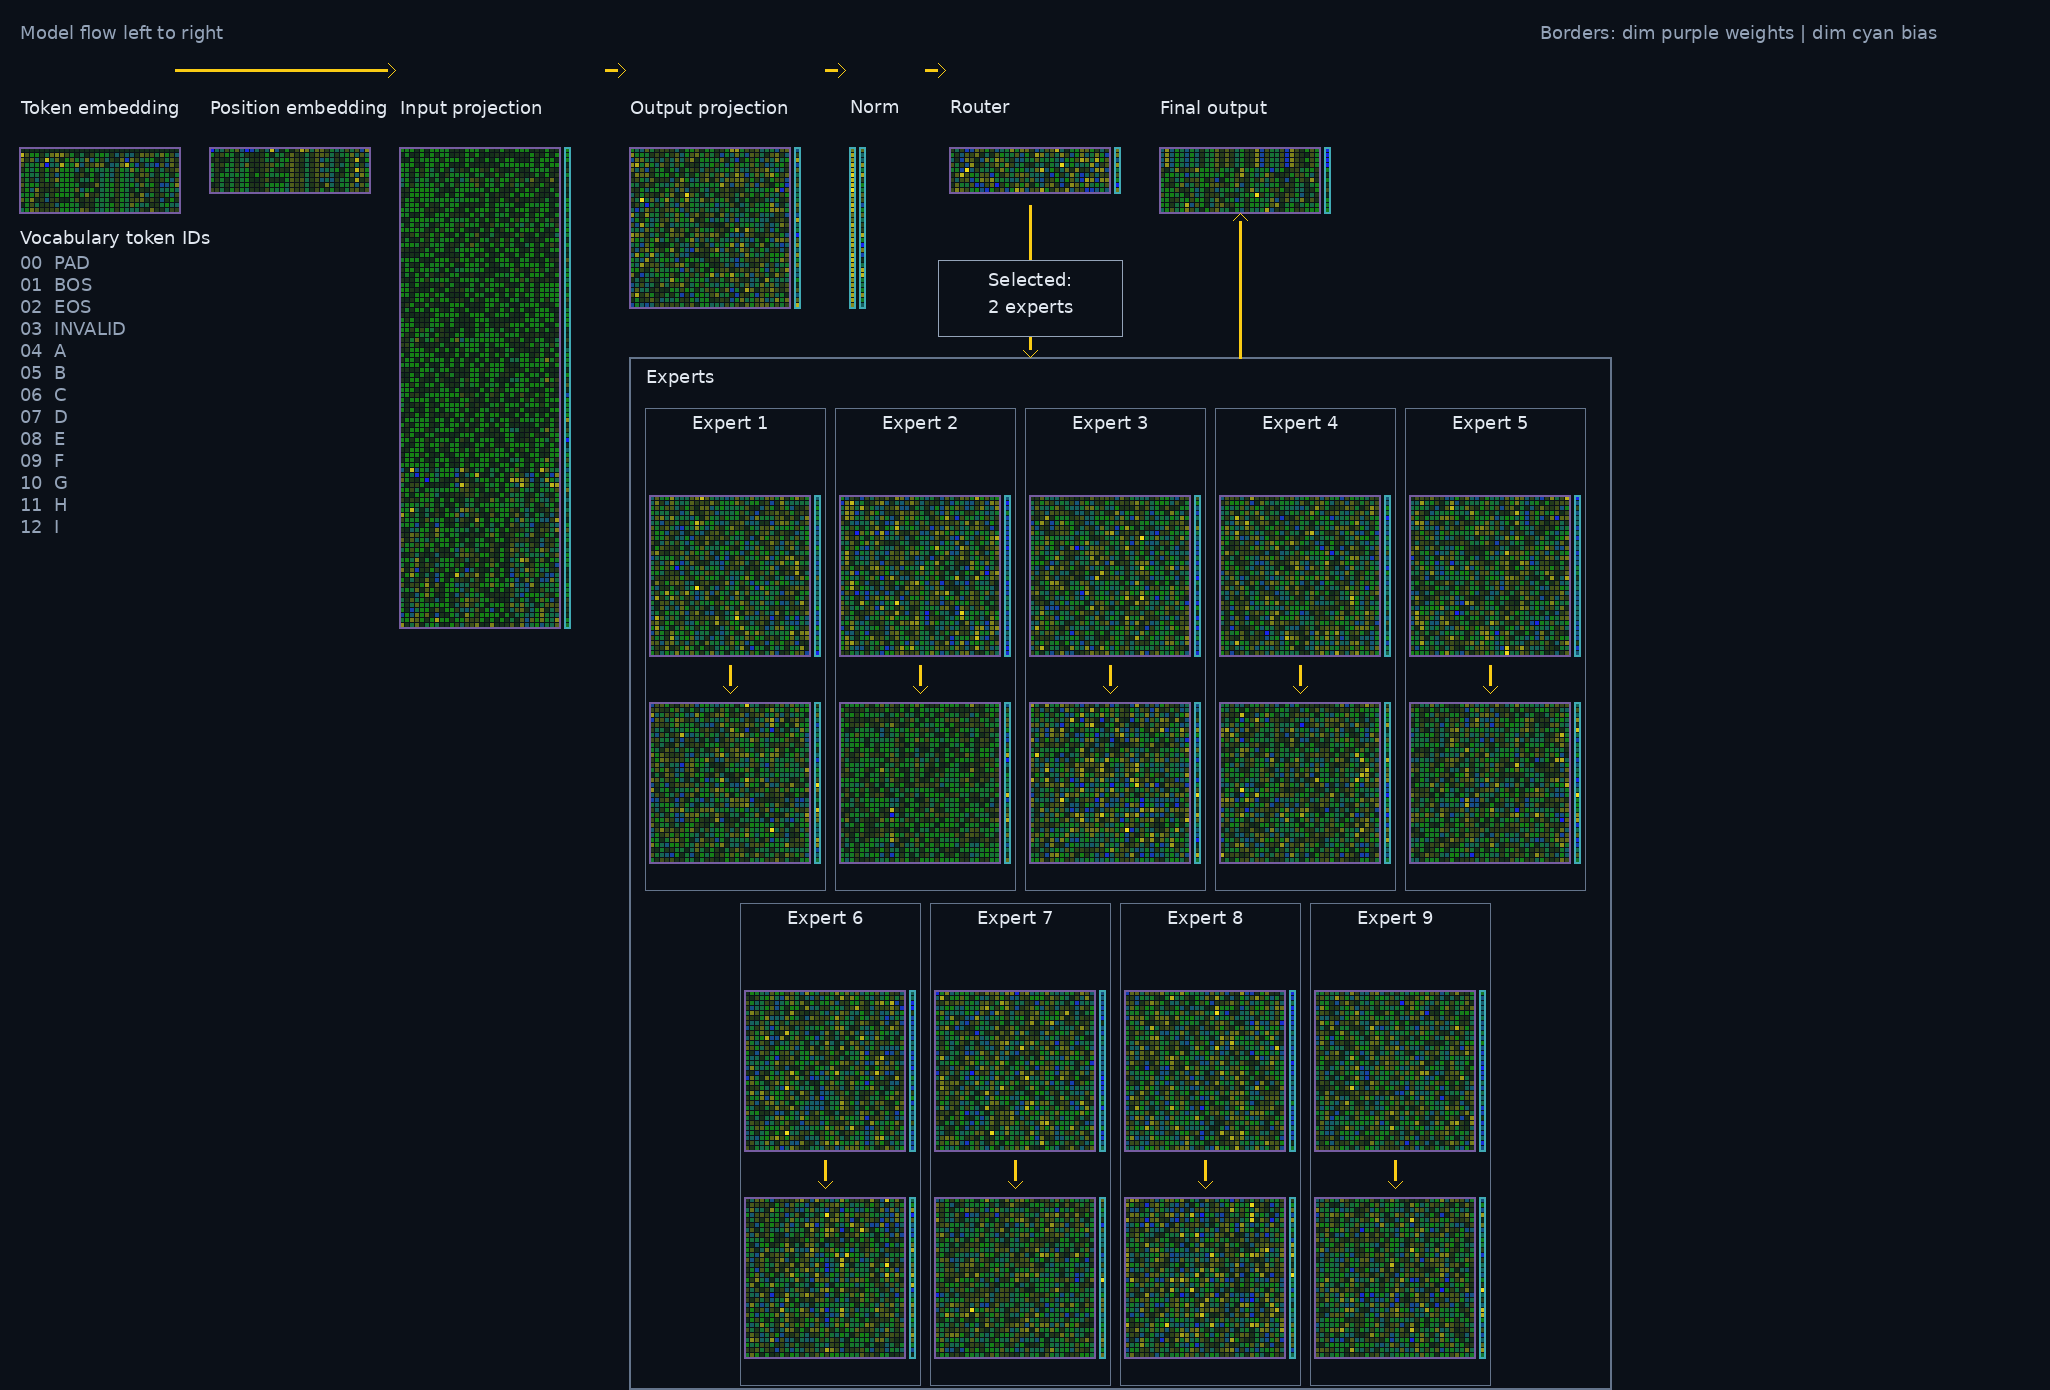
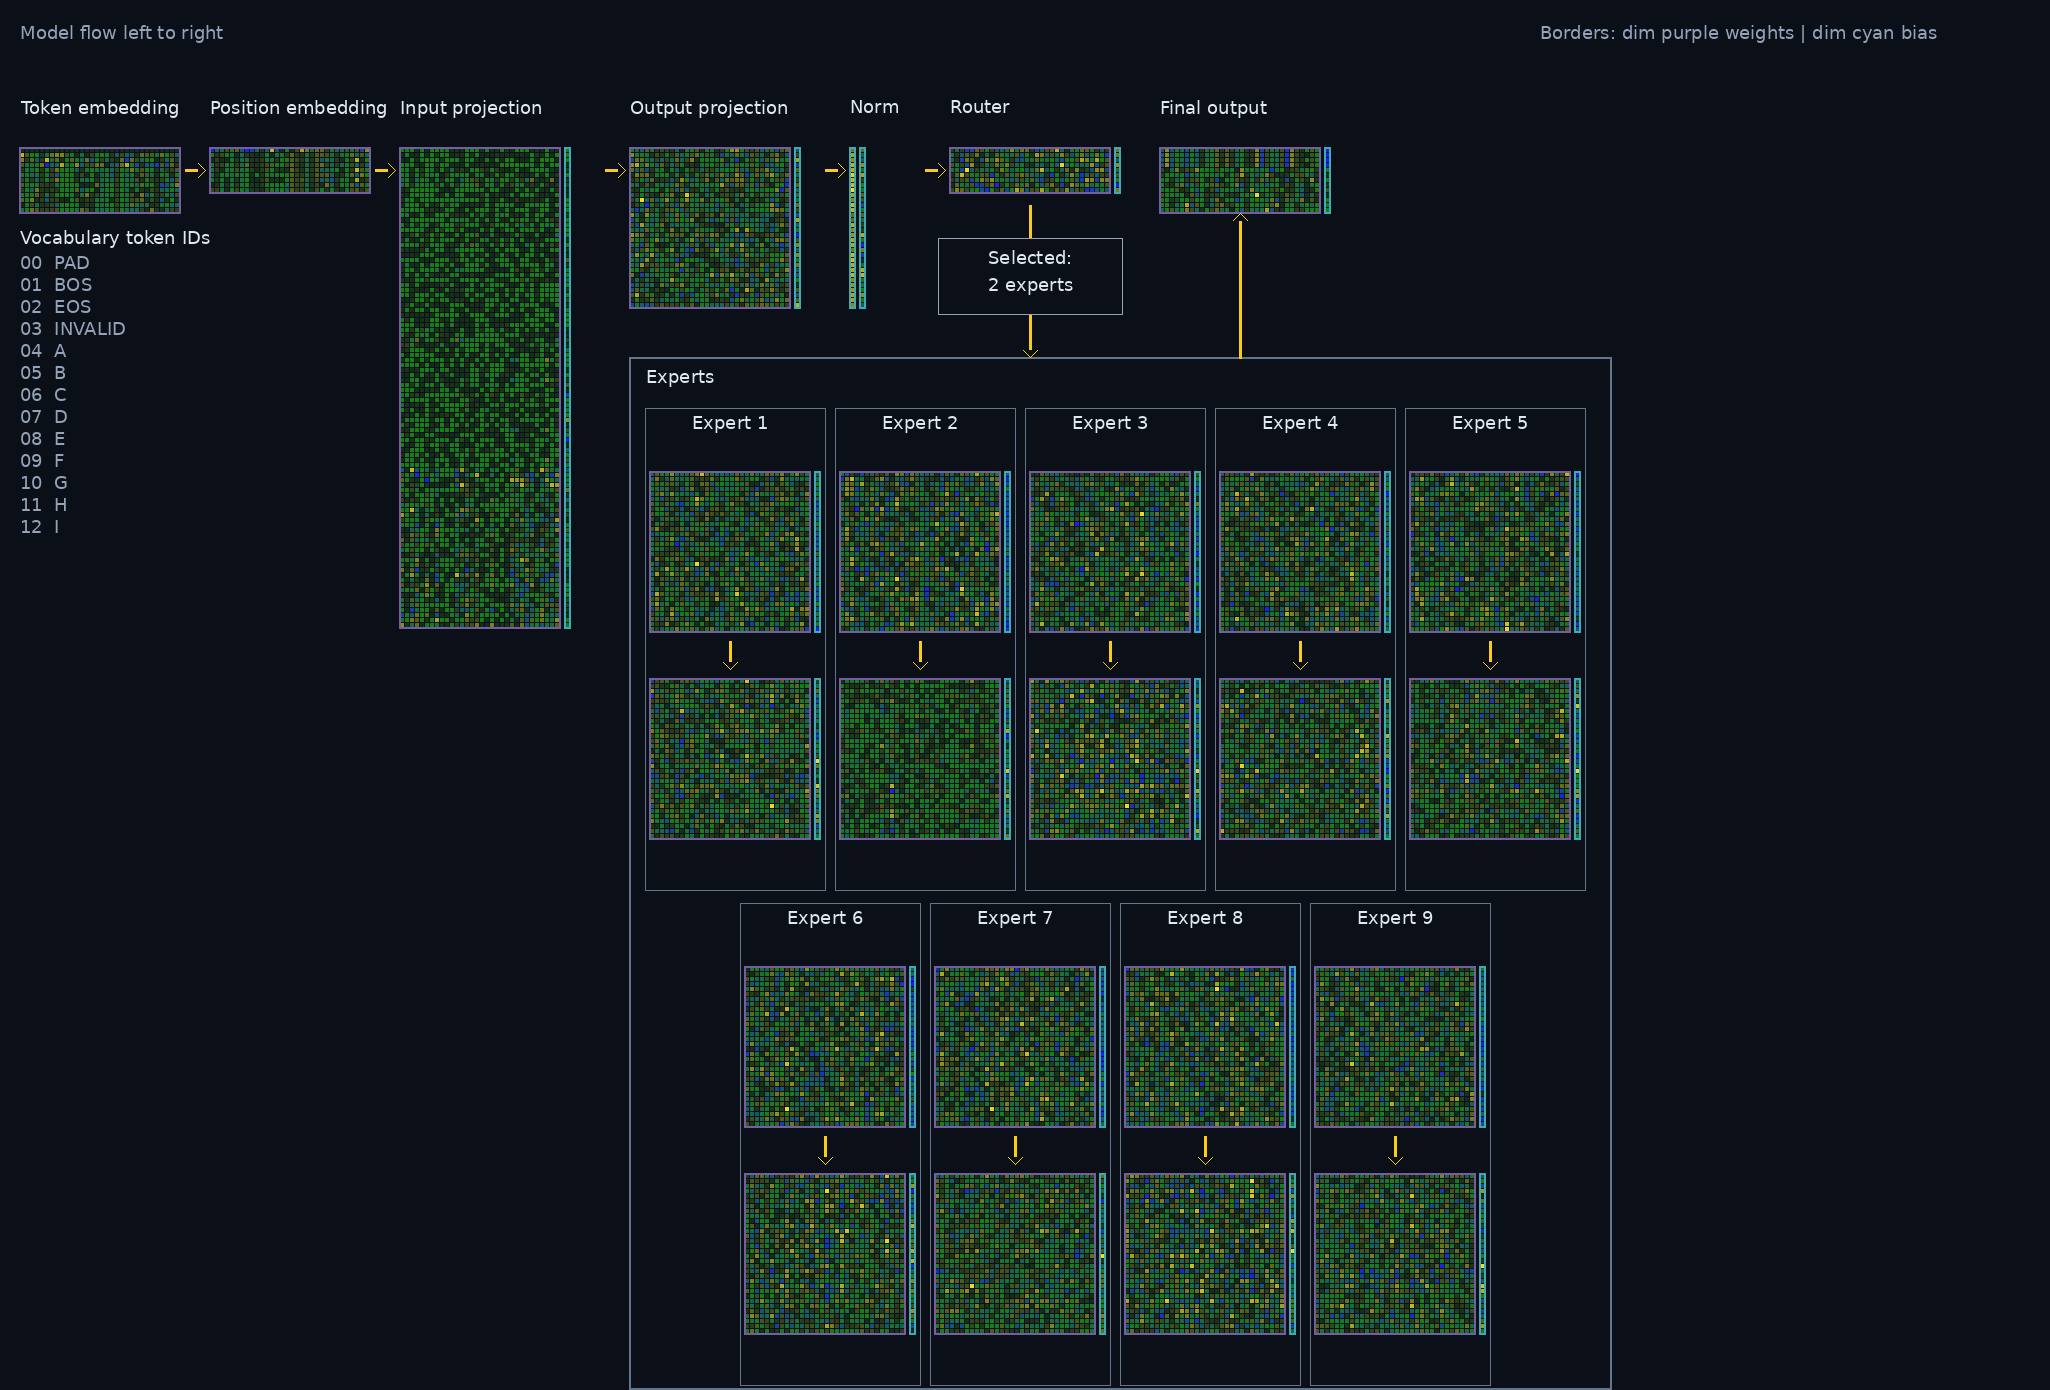
Align tensor inspector flow arrows

Changed region(s): [[0.3122, 0.3403, 0.7805, 0.6187], [0.3434, 0.6806, 0.7493, 0.9899], [0.4683, 0.1856, 0.5307, 0.2475]]

diff --git a/tools/tensor_inspector.py b/tools/tensor_inspector.py
@@ -180,7 +180,7 @@ def render_checkpoint_inspector(source: Path) -> tuple[bytes, dict[str, object]]
         for name, tensor in state.items()
     }
 
-    top_y, flow_y = 100, 70
+    top_y, flow_y = 100, 170
     _text(rgb, width, _MARGIN, 25, "Model flow left to right", _MUTED)
     _text(rgb, width, 1540, 25, "Borders: dim purple weights | dim cyan bias", _MUTED)
     _render_single(rgb, width, state, "embedding.weight", "Token embedding", 20, top_y)
@@ -192,7 +192,9 @@ def render_checkpoint_inspector(source: Path) -> tuple[bytes, dict[str, object]]
     _render_pair(rgb, width, state, "output.weight", "output.bias", "Final output", 1160, top_y)
     _render_vocabulary(rgb, width, 20, 230)
 
-    _arrow(rgb, width, 175, flow_y, 395, flow_y)
+    # The position table is an explicit branch: small flow arrows enter and leave its matrix at the shared tensor centerline.
+    _arrow(rgb, width, 185, flow_y, 205, flow_y)
+    _arrow(rgb, width, 375, flow_y, 395, flow_y)
     _arrow(rgb, width, 605, flow_y, 625, flow_y)
     _arrow(rgb, width, 825, flow_y, 845, flow_y)
     _arrow(rgb, width, 925, flow_y, 945, flow_y)
@@ -205,11 +207,11 @@ def render_checkpoint_inspector(source: Path) -> tuple[bytes, dict[str, object]]
     _rectangle(rgb, width, expert_left, expert_top, expert_right - expert_left, expert_bottom - expert_top, _EXPERT_BORDER)
     _text(rgb, width, expert_left + 16, expert_top + 12, "Experts", _LABEL)
     _arrow(rgb, width, router_center, 205, router_center, expert_top - 1)
-    selection_x, selection_y, selection_width, selection_height = router_center - 92, 260, 184, 76
+    selection_x, selection_y, selection_width, selection_height = router_center - 92, 238, 184, 76
     _fill_rectangle(rgb, width, selection_x, selection_y, selection_width, selection_height, (11, 16, 24))
     _rectangle(rgb, width, selection_x, selection_y, selection_width, selection_height, _MUTED, 1)
-    _centered_text(rgb, width, router_center, 272, "Selected:", _LABEL)
-    _centered_text(rgb, width, router_center, 300, "2 experts", _LABEL)
+    _centered_text(rgb, width, router_center, 250, "Selected:", _LABEL)
+    _centered_text(rgb, width, router_center, 278, "2 experts", _LABEL)
     for expert in range(9):
         row, column = divmod(expert, 5)
         row_y = expert_y + row * 495
@@ -217,17 +219,17 @@ def render_checkpoint_inspector(source: Path) -> tuple[bytes, dict[str, object]]
         box_top, box_bottom = row_y + 8, row_y + 490
         _rectangle(rgb, width, x - 5, box_top, 180, box_bottom - box_top, _EXPERT_BORDER, 1)
         _centered_text(rgb, width, x + 80, box_top + 8, f"Expert {expert + 1}", _LABEL)
-        _render_pair(rgb, width, state, f"experts.{expert}.0.weight", f"experts.{expert}.0.bias", "", x, row_y + 48)
-        _render_pair(rgb, width, state, f"experts.{expert}.2.weight", f"experts.{expert}.2.bias", "", x, row_y + 255)
-        _arrow(rgb, width, x + 80, row_y + 265, x + 80, row_y + 293)
+        _render_pair(rgb, width, state, f"experts.{expert}.0.weight", f"experts.{expert}.0.bias", "", x, row_y + 24)
+        _render_pair(rgb, width, state, f"experts.{expert}.2.weight", f"experts.{expert}.2.bias", "", x, row_y + 231)
+        _arrow(rgb, width, x + 80, row_y + 241, x + 80, row_y + 269)
     # The return uses a straight reserved lane and terminates immediately below the Final output weight matrix.
     output_return_x, output_matrix_bottom = 1240, 213
     _arrow(rgb, width, output_return_x, expert_top, output_return_x, output_matrix_bottom)
 
     metadata = {
-        "format": "crystal-9-tensor-inspector-v12", "source": source.name,
+        "format": "crystal-9-tensor-inspector-v13", "source": source.name,
         "source_sha256": hashlib.sha256(source.read_bytes()).hexdigest(), "tensor_count": len(state),
-        "normalization": "per-tensor symmetric max-absolute", "layout": "architecture-flow-v12",
+        "normalization": "per-tensor symmetric max-absolute", "layout": "architecture-flow-v13",
         "bias_alignment": "vertical output-row axis", "sections": ["inputs", "attention", "norm_router", "experts", "output"],
         "legend": {"WEIGHTS": "matrix; rows are output features", "BIAS": "bias column; one value per output row", "B": "bias column; one value per output row"},
         "expert_layout": "five Expert boxes over four Expert boxes; each contains its first and second layer",

diff --git a/tests/test_tensor_inspector.py b/tests/test_tensor_inspector.py
@@ -15,7 +15,7 @@ def test_checkpoint_inspector_renders_actual_tensor_inventory_as_png():
     assert metadata["tensors"]["attention.in_proj_weight"]["shape"] == [96, 32]
     assert metadata["tensors"]["experts.0.0.weight"]["shape"] == [32, 32]
     assert metadata["normalization"] == "per-tensor symmetric max-absolute"
-    assert metadata["layout"] == "architecture-flow-v12"
+    assert metadata["layout"] == "architecture-flow-v13"
     assert metadata["bias_alignment"] == "vertical output-row axis"
     assert metadata["sections"][-2:] == ["experts", "output"]
     assert metadata["legend"]["B"] == "bias column; one value per output row"

diff --git a/tools/export_tensor_inspectors.py b/tools/export_tensor_inspectors.py
@@ -31,7 +31,7 @@ def main() -> None:
             "tensor_count": metadata["tensor_count"], "width": metadata["width"], "height": metadata["height"],
             "normalization": metadata["normalization"], "derived": True,
         })
-    (OUTPUT.parent / "inspectors.json").write_text(json.dumps({"format": "crystal-9-tensor-inspector-v12", "inspectors": inspectors}, indent=2) + "\n")
+    (OUTPUT.parent / "inspectors.json").write_text(json.dumps({"format": "crystal-9-tensor-inspector-v13", "inspectors": inspectors}, indent=2) + "\n")
 
 
 if __name__ == "__main__":
